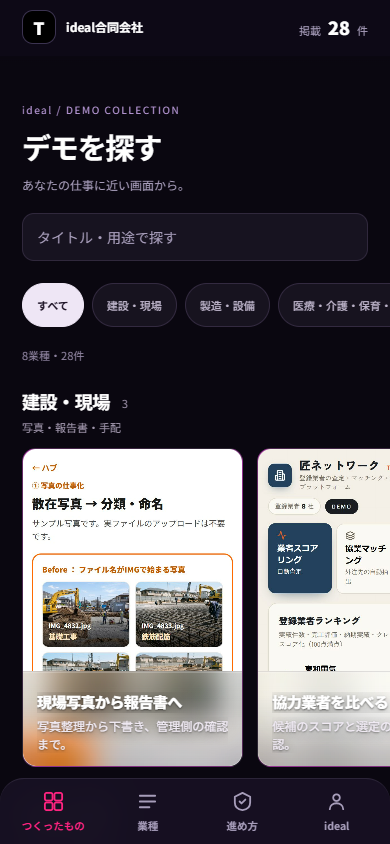
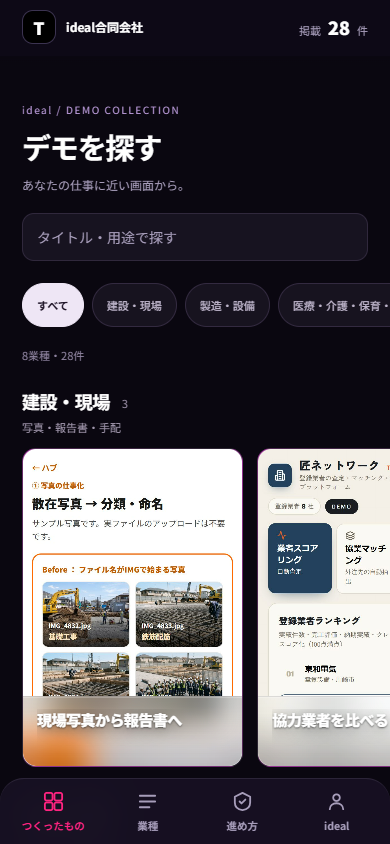
デザイン調整

Changed region(s): [[0.0615, 0.7701, 0.6462, 0.8934], [0.6769, 0.8009, 1.0, 0.8934]]

diff --git a/src/style.css b/src/style.css
@@ -396,9 +396,8 @@ a{color:inherit;text-decoration:none;}
 .catalog-art img[hidden]{display:none;}
 .catalog-art::after{content:'';position:absolute;inset:0;background:linear-gradient(180deg,transparent 82%,rgba(8,5,16,.08) 100%);box-shadow:inset 0 0 0 1px #ffffff0a;pointer-events:none;border-radius:inherit;z-index:1;}
 .catalog-open{position:absolute;right:12px;bottom:12px;background:#100b1cdd;border:1px solid #ffffff33;border-radius:50%;width:30px;height:30px;display:grid;place-items:center;font-size:14px;opacity:0;transition:opacity .2s;}
-.catalog-card-body{position:absolute;inset:auto 0 0;z-index:2;display:flex;flex-direction:column;justify-content:flex-end;box-sizing:border-box;height:30%;padding:12px 14px 13px;overflow:hidden;background:linear-gradient(180deg,rgba(255,255,255,.12) 0%,rgba(255,255,255,.04) 24%,rgba(16,12,26,.16) 100%);backdrop-filter:blur(18px) saturate(1.7);-webkit-backdrop-filter:blur(18px) saturate(1.7);border-top:1px solid rgba(255,255,255,.3);box-shadow:inset 0 1px 0 rgba(255,255,255,.22),inset 0 -20px 24px rgba(8,5,16,.06);border-radius:0 0 14px 14px;}
-.catalog-title{font-size:17px;line-height:1.35;font-weight:800;letter-spacing:-.035em;display:-webkit-box;-webkit-box-orient:vertical;-webkit-line-clamp:2;overflow:hidden;text-shadow:0 1px 2px rgba(0,0,0,.55),0 2px 16px rgba(0,0,0,.5);}
-.catalog-description{margin-top:4px;font-size:12px;line-height:1.5;color:#f3edf7;display:-webkit-box;-webkit-box-orient:vertical;-webkit-line-clamp:2;overflow:hidden;text-shadow:0 1px 2px rgba(0,0,0,.5),0 2px 12px rgba(0,0,0,.45);}
+.catalog-card-body{position:absolute;inset:auto 0 0;z-index:2;display:flex;flex-direction:column;justify-content:center;box-sizing:border-box;height:22%;padding:12px 14px 14px;background:linear-gradient(180deg,rgba(255,255,255,.12) 0%,rgba(255,255,255,.04) 24%,rgba(16,12,26,.16) 100%);backdrop-filter:blur(18px) saturate(1.7);-webkit-backdrop-filter:blur(18px) saturate(1.7);border-top:1px solid rgba(255,255,255,.3);box-shadow:inset 0 1px 0 rgba(255,255,255,.22),inset 0 -20px 24px rgba(8,5,16,.06);border-radius:0 0 14px 14px;}
+.catalog-title{font-size:17px;line-height:1.4;font-weight:800;letter-spacing:-.035em;display:-webkit-box;-webkit-box-orient:vertical;-webkit-line-clamp:2;overflow:hidden;min-height:calc(1.4em * 2);text-shadow:0 1px 2px rgba(0,0,0,.55),0 2px 16px rgba(0,0,0,.5);}
 .catalog-image-label{position:absolute;left:10px;bottom:10px;background:#0b0715b8;color:#e0d3eb;border-radius:5px;padding:4px 7px;font-size:9px;}
 .catalog-art-fallback{display:none;position:absolute;inset:0;place-items:center;}
 .catalog-art-fallback svg{width:68px;height:68px;}

diff --git a/src/catalog.js b/src/catalog.js
@@ -35,14 +35,14 @@ export const catalogCopy = {
 }
 
 export function catalogCard(d, esc) {
- const [title,description,index=0,position='top',image]=catalogCopy[d.id] || [d.plain,d.one]
+ const [title,,index=0,position='top',image]=catalogCopy[d.id] || [d.plain,d.one]
  const images=(d.shots || []).filter(s=>s.image)
  const source=images.length?images:(storyImages[d.id] || [])
  const shot=source[index] || source[0]
  const cat=CATEGORIES.find(c=>c.id===d.category)
  const illustration=`/images/catalog/${d.id}.svg`
  return `<button type="button" class="catalog-card" data-id="${esc(d.id)}" aria-label="${esc(title)}の詳細を見る">
-   <span class="catalog-art" style="--catalog-color:${esc(cat?.bg || '#40304e')}"><span class="catalog-device"><img src="${esc(image || shot?.image || illustration)}" alt="${esc(shot?.cap || shot?.label || title+'の流れのイメージ')}" loading="lazy" width="800" height="600" style="object-position:center ${esc(position)}"></span><span class="catalog-art-fallback" aria-hidden="true">${ICON[d.icon] || ICON.doc}</span>${!(image || shot)?'<span class="catalog-image-label">流れのイメージ</span>':''}<span class="catalog-open" aria-hidden="true">↗</span><span class="catalog-card-body"><span class="catalog-title">${esc(title)}</span><span class="catalog-description">${esc(description)}</span></span></span>
+   <span class="catalog-art" style="--catalog-color:${esc(cat?.bg || '#40304e')}"><span class="catalog-device"><img src="${esc(image || shot?.image || illustration)}" alt="${esc(shot?.cap || shot?.label || title+'の流れのイメージ')}" loading="lazy" width="800" height="600" style="object-position:center ${esc(position)}"></span><span class="catalog-art-fallback" aria-hidden="true">${ICON[d.icon] || ICON.doc}</span>${!(image || shot)?'<span class="catalog-image-label">流れのイメージ</span>':''}<span class="catalog-open" aria-hidden="true">↗</span><span class="catalog-card-body"><span class="catalog-title">${esc(title)}</span></span></span>
  </button>`
 }
 
